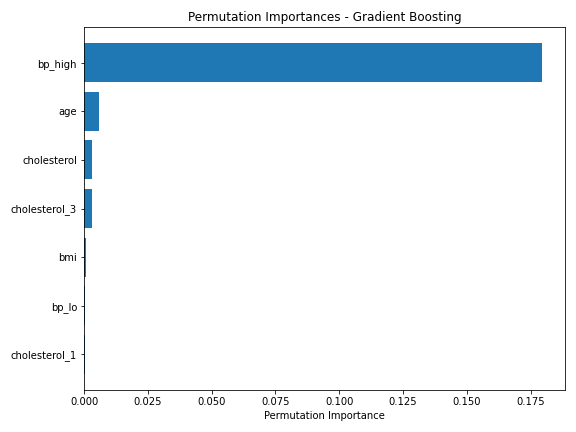
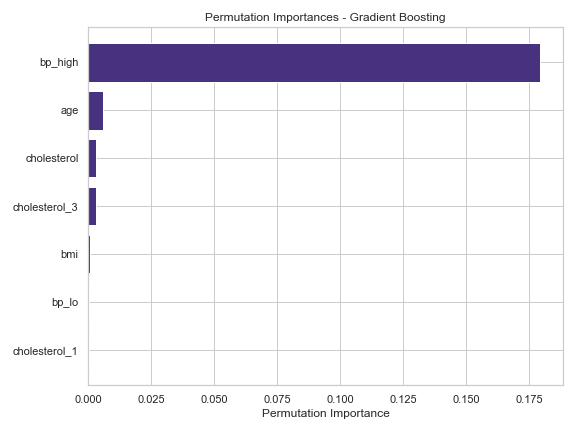
refac: plots

diff --git a/src/visualize.py b/src/visualize.py
@@ -15,63 +15,66 @@ class Visualizer:
     def match_index(self, data_frame, target):
         target_df = pd.DataFrame(target, columns=['cardio'])
         target_df.index = data_frame.index
-        
         return target_df
 
-
     def barplot(self, data_frame):
+        sns.set(style="whitegrid", palette="viridis")
         for col in data_frame.columns:
+            plt.figure(figsize=(10, 6))
             levels, counts = self.get_counts(data_frame[col])
-            plt.bar(levels, counts, color="skyblue")
-            plt.xlabel(f"{col}")
-            plt.ylabel("Counts")
-            plt.title(f"Distribution Count of {col} Levels")
+            plt.bar(levels, counts)
+            plt.xlabel(f"{col}", fontsize=14, fontweight='bold')
+            plt.ylabel("Counts", fontsize=14, fontweight='bold')
+            plt.title(f"Distribution Count of {col} Levels", fontsize=16, fontweight='bold')
+            plt.xticks(rotation=45)
             plt.show()
 
     def histplot(self, data_frame):
+        sns.set(style="whitegrid")
         for col in data_frame.columns:
-            plt.figure(figsize=(8, 8))
-            sns.histplot(data_frame[col], bins="auto")
-            plt.title(f"Histogram of {col}")
+            plt.figure(figsize=(10, 6))
+            sns.histplot(data_frame[col], bins="auto", kde=True, color="lightblue")
+            plt.title(f"Histogram of {col}", fontsize=16, fontweight='bold')
+            plt.xlabel(f"{col}", fontsize=14, fontweight='bold')
+            plt.ylabel("Frequency", fontsize=14, fontweight='bold')
             plt.show()
 
-    def scatter(self, data_frame,target):
+    def scatter(self, data_frame, target):
+        sns.set(style="whitegrid")
         for col in data_frame.columns:
-            plt.figure(figsize=(8, 8))
-            sns.scatterplot(data=data_frame, x=col, y=target)
-            plt.title(f"Scatter plot of {col} vs cardio")
+            plt.figure(figsize=(10, 6))
+            sns.scatterplot(data=data_frame, x=col, y=target, color="purple", alpha=0.7)
+            plt.title(f"Scatter plot of {col} vs cardio", fontsize=16, fontweight='bold')
+            plt.xlabel(f"{col}", fontsize=14, fontweight='bold')
+            plt.ylabel("Cardio", fontsize=14, fontweight='bold')
             plt.show()
 
-    def heatmap(self, data_frame, target, method = "spearman"):
+    def heatmap(self, data_frame, target, method="spearman"):
+        sns.set(style="white")
         data = pd.concat([data_frame, target], axis=1)
-        correlation = data.corr(method = method).round(2)
-        plt.figure(figsize=(15, 15))
-        sns.heatmap(correlation, annot=True, cmap='coolwarm', cbar=False)
-        plt.title('Correlation Heatmap')
+        correlation = data.corr(method=method).round(2)
+        plt.figure(figsize=(12, 10))
+        sns.heatmap(correlation, annot=True, cmap='magma', cbar=False)
+        plt.title('Correlation Heatmap', fontsize=16, fontweight='bold')
         plt.show()
 
     def plot_roc(self, fpr, tpr, auc_score):
-        
-        plt.figure(figsize=(8, 6))
-        plt.plot(fpr, tpr, color='blue', lw=2, label=f'ROC curve (AUC = {auc_score:.2f})')
+        plt.figure(figsize=(10, 8))
+        plt.plot(fpr, tpr, color='green', lw=2, label=f'ROC curve (AUC = {auc_score:.2f})')
         plt.plot([0, 1], [0, 1], color='gray', linestyle='--')
         plt.xlim([0.0, 1.0])
         plt.ylim([0.0, 1.05])
-        plt.xlabel('False Positive Rate')
-        plt.ylabel('True Positive Rate')
-        plt.title('Receiver Operating Characteristic (ROC) Curve')
+        plt.xlabel('False Positive Rate', fontsize=14, fontweight='bold')
+        plt.ylabel('True Positive Rate', fontsize=14, fontweight='bold')
+        plt.title('Receiver Operating Characteristic (ROC) Curve', fontsize=16, fontweight='bold')
         plt.legend(loc='lower right')
+        plt.grid(True)
         plt.show()
-        
+
     def plot_confusion_matrix(self, conf_matrix):
-
-        # y_pred = model.predict(X_test)
-        # conf_matrix = confusion_matrix(y_test, y_pred)
-    
-        plt.figure(figsize=(8, 6))
-        sns.heatmap(conf_matrix, annot=True, fmt='d', cmap='Blues', cbar=False)
-        plt.xlabel('Predicted labels')
-        plt.ylabel('True labels')
-        plt.title('Confusion Matrix')
+        plt.figure(figsize=(10, 8))
+        sns.heatmap(conf_matrix, annot=True, fmt='d', cmap='viridis', cbar=False)
+        plt.xlabel('Predicted labels', fontsize=14, fontweight='bold')
+        plt.ylabel('True labels', fontsize=14, fontweight='bold')
+        plt.title('Confusion Matrix', fontsize=16, fontweight='bold')
         plt.show()
-

diff --git a/src/models/feature_importance_analysis.py b/src/models/feature_importance_analysis.py
@@ -2,6 +2,7 @@ import os
 import joblib
 import numpy as np
 import matplotlib.pyplot as plt
+import seaborn as sns
 from sklearn.inspection import permutation_importance
 from utils import get_project_directory
 
@@ -45,6 +46,7 @@ class FeatureImportanceAnalysis:
             project_dir = get_project_directory()
 
             # Plot feature importance
+            sns.set(style="whitegrid", palette="coolwarm")
             plt.figure(figsize=(8, 6))
             plt.barh(feature_names, feature_importance)
             plt.xlabel('Feature Importance')
@@ -65,6 +67,7 @@ class FeatureImportanceAnalysis:
             project_dir = get_project_directory()
 
             # Plot permutation importance as bar graph
+            sns.set(style="whitegrid", palette="viridis")
             plt.figure(figsize=(8, 6))
             plt.barh(np.array(model["feature_names"])[
                      sorted_idx], result.importances_mean[sorted_idx])

diff --git a/src/main.py b/src/main.py
@@ -1,9 +1,7 @@
-import pandas as pd
 from data_loading import DataInitializer
 from data_preprocessing import DataProcessor
 from feature_engineering import FeatureEngines
 from models.read_dump_model import DumpTrainModel
-from model_tuners import ModelTuning
 from models.feature_importance_analysis import FeatureImportanceAnalysis
 from visualize import Visualizer
 
@@ -71,15 +69,5 @@ feature_importance_analysis = FeatureImportanceAnalysis(
 feature_importance_analysis.plot_feature_importance()
 feature_importance_analysis.permutation_importance_analysis()
 
-
-# TUNER
-feature_names = X_train.columns.tolist()
-tuners = ModelTuning(X_train, feature_names)
-sample_index = 0
-sample = X_test.values[sample_index]
-
-# Explanation
-explanation = tuners.explainer.explain_instance(
-    sample, xg_boost["predict"].predict_proba, num_features=len(feature_names))
 
 # DASHBOARD
